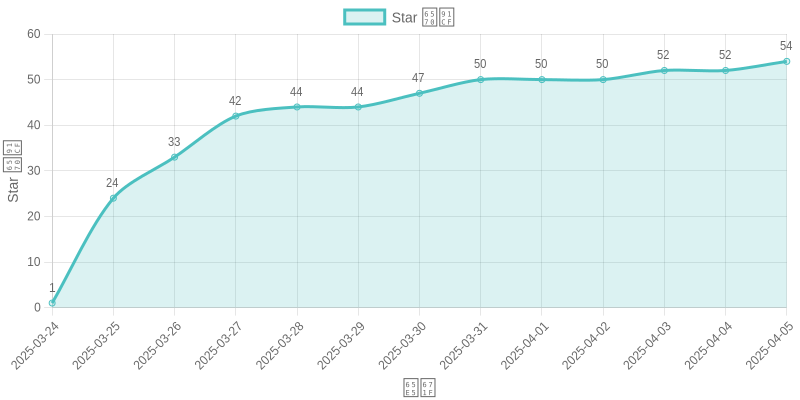
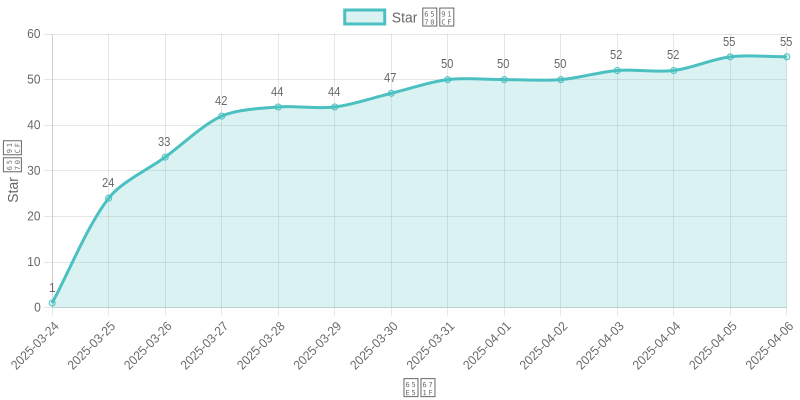
Update star chart and README with new image version

diff --git a/README.md b/README.md
@@ -130,7 +130,7 @@
 
 欢迎提交 Issue 或 Pull Request！如果您有任何改进建议或新功能需求，请随时联系我。
 
-![Star 增长趋势](images/star-chart.png?v=1743840443?v=1743840443?v=1743822323?v=1743736069?v=1743649678?v=1743563352?v=1743478310?v=1743390913?v=1743304503?v=1743217489?v=1743131308?v=1743044833?v=1742958344?v=1742920064?v=1742900142?v=1742899904 "Star 增长趋势")
+![Star 增长趋势](images/star-chart.png?v=1743909142?v=1743909142?v=1743840443?v=1743822323?v=1743736069?v=1743649678?v=1743563352?v=1743478310?v=1743390913?v=1743304503?v=1743217489?v=1743131308?v=1743044833?v=1742958344?v=1742920064?v=1742900142?v=1742899904 "Star 增长趋势")
 
 ## 许可证
 
